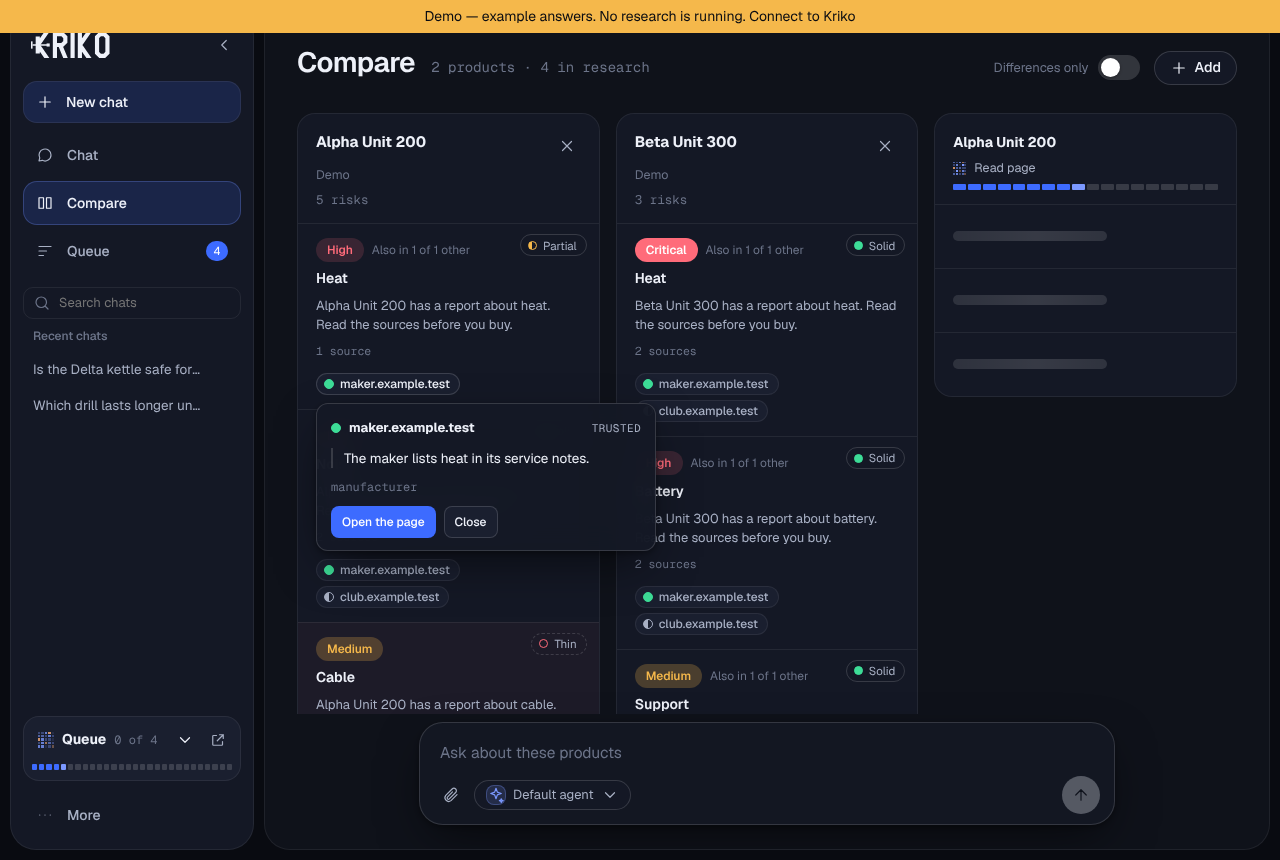
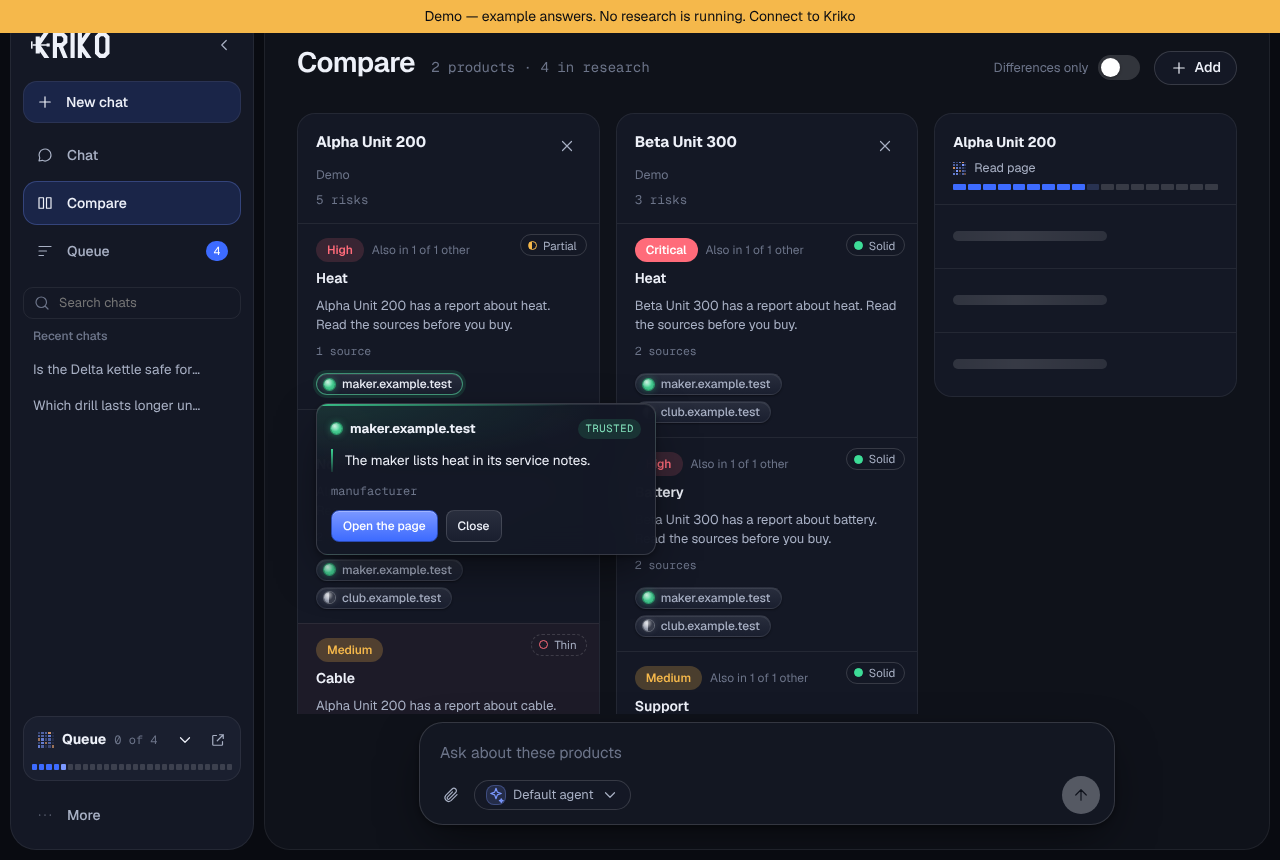
style(ui): the claim chip's marks are lit lenses, not flat fills
Flat colour read as cheap. Each mark is now a small lens: a lit body, a gloss
and a soft glow in its tier's own colour; the chip has a top-light gradient
and tints its edge on hover; the card carries a hairline of the tier colour
and a wash behind the head, and rises in with the app's one-shot motion
(off when motion is off). The extension chip carries the same look.

Claude-Session: https://claude.ai/code/session_0115bYUkYb76nUoGx5zcHdWF

diff --git a/kriko-ui/src/styles/rail.css b/kriko-ui/src/styles/rail.css
@@ -512,32 +512,55 @@
 }
 
 /* ---- the claim chip: a source's standing, its site, and its quote on hover ----
-   Three shapes, as the evidence mark draws them: filled, half, ring. The
-   extension panel carries the same chip (extension/hover_lite/hover_lite.css). */
+   Three shapes, as the evidence mark draws them: filled, half, ring. Each is a
+   small lens: a lit body, a gloss, a soft glow in its own colour. The glow is
+   the only place colour spills, so a row of chips stays calm. The extension
+   panel carries the same chip (extension/hover_lite/hover_lite.css). */
+
+.claim-chip,
+.claim-card {
+  --tone: var(--ink-3);
+}
+
+[data-standing='trusted'] {
+  --tone: var(--ok);
+}
+
+[data-standing='neutral'] {
+  --tone: var(--ink-2);
+}
+
+[data-standing='low'] {
+  --tone: var(--warn);
+}
 
 .claim-sources {
   display: flex;
   flex-wrap: wrap;
-  gap: 5px;
+  gap: 6px;
   margin-top: 8px;
 }
 
 .claim-chip {
   display: inline-flex;
   align-items: center;
-  gap: 6px;
+  gap: 7px;
   max-width: 100%;
-  padding: 4px 9px 4px 7px;
-  background: var(--panel-2);
+  padding: 4px 10px 4px 7px;
+  background: linear-gradient(180deg, color-mix(in srgb, var(--ink) 7%, var(--panel-2)), var(--panel-2));
   border: 1px solid var(--edge);
   border-radius: 999px;
+  box-shadow: inset 0 1px 0 color-mix(in srgb, var(--ink) 9%, transparent), var(--shadow-1);
   color: var(--ink-2);
   cursor: pointer;
   font: inherit;
   font-size: 12px;
   font-weight: 500;
   line-height: 1;
-  transition: border-color calc(150ms * var(--tm)), color calc(150ms * var(--tm));
+  transition:
+    border-color calc(160ms * var(--tm)),
+    color calc(160ms * var(--tm)),
+    box-shadow calc(160ms * var(--tm));
 }
 
 .claim-chip[data-compact] {
@@ -546,7 +569,10 @@
 
 .claim-chip:hover,
 .claim-chip[aria-expanded='true'] {
-  border-color: var(--edge-strong);
+  border-color: color-mix(in srgb, var(--tone) 50%, var(--edge-strong));
+  box-shadow:
+    inset 0 1px 0 color-mix(in srgb, var(--ink) 9%, transparent),
+    0 0 0 3px color-mix(in srgb, var(--tone) 12%, transparent);
   color: var(--ink);
 }
 
@@ -567,24 +593,44 @@
   white-space: nowrap;
 }
 
+/* The lens. Trusted is lit all through, neutral is lit on one side, low is a
+   lit ring round a dark centre. A gloss sits on top of all three. */
 .claim-glyph {
   box-sizing: border-box;
+  position: relative;
   flex: none;
-  width: 10px;
-  height: 10px;
-  border: 1.5px solid var(--ok);
+  width: 11px;
+  height: 11px;
   border-radius: 50%;
-  background: var(--ok);
+  background: radial-gradient(circle at 50% 50%, color-mix(in srgb, var(--tone) 100%, white 12%), color-mix(in srgb, var(--tone) 78%, black));
+  box-shadow:
+    0 0 0 1px color-mix(in srgb, var(--tone) 70%, black),
+    0 0 7px color-mix(in srgb, var(--tone) 55%, transparent);
+}
+
+.claim-glyph::after {
+  content: '';
+  position: absolute;
+  inset: 0;
+  border-radius: 50%;
+  background: radial-gradient(circle at 34% 28%, rgba(255, 255, 255, 0.75), rgba(255, 255, 255, 0) 52%);
+  pointer-events: none;
 }
 
 [data-standing='neutral'] > .claim-glyph {
-  border-color: var(--ink-2);
-  background: linear-gradient(90deg, var(--ink-2) 50%, transparent 50%);
+  background:
+    linear-gradient(90deg, transparent 50%, color-mix(in srgb, var(--ink) 14%, var(--panel-2)) 50%),
+    radial-gradient(circle at 50% 50%, color-mix(in srgb, var(--tone) 100%, white 18%), color-mix(in srgb, var(--tone) 72%, black));
+  box-shadow:
+    0 0 0 1px color-mix(in srgb, var(--tone) 60%, black),
+    0 0 6px color-mix(in srgb, var(--tone) 28%, transparent);
 }
 
 [data-standing='low'] > .claim-glyph {
-  border-color: var(--warn);
-  background: transparent;
+  background: radial-gradient(circle at 50% 50%, color-mix(in srgb, var(--panel-2) 88%, black) 0 34%, color-mix(in srgb, var(--tone) 100%, white 10%) 40%, color-mix(in srgb, var(--tone) 80%, black) 100%);
+  box-shadow:
+    0 0 0 1px color-mix(in srgb, var(--tone) 65%, black),
+    0 0 6px color-mix(in srgb, var(--tone) 38%, transparent);
 }
 
 .claim-card {
@@ -593,14 +639,37 @@
   display: flex;
   flex-direction: column;
   gap: 10px;
+  overflow: hidden;
   width: min(340px, calc(100vw - 24px));
-  padding: 14px 14px 12px;
-  background: color-mix(in srgb, var(--panel) 95%, transparent);
-  backdrop-filter: blur(14px);
+  padding: 15px 14px 12px;
+  background:
+    radial-gradient(120% 90px at 0% 0%, color-mix(in srgb, var(--tone) 14%, transparent), transparent 70%),
+    color-mix(in srgb, var(--panel) 96%, transparent);
+  backdrop-filter: blur(16px) saturate(1.2);
   border: 1px solid var(--edge-strong);
   border-radius: var(--r-m);
-  box-shadow: var(--shadow-2);
+  box-shadow:
+    inset 0 1px 0 color-mix(in srgb, var(--ink) 10%, transparent),
+    var(--shadow-2);
   color: var(--ink);
+  animation: claim-card-in calc(180ms * var(--tm)) var(--ease-out) both;
+}
+
+/* A hairline of the tier's own colour along the top edge, fading out to the right. */
+.claim-card::before {
+  content: '';
+  position: absolute;
+  inset: 0 0 auto;
+  height: 1.5px;
+  background: linear-gradient(90deg, var(--tone), transparent 75%);
+  opacity: 0.8;
+}
+
+@keyframes claim-card-in {
+  from {
+    opacity: 0;
+    transform: translateY(calc(5px * var(--dm)));
+  }
 }
 
 .claim-card-head {
@@ -612,18 +681,22 @@
 
 .claim-card-word {
   margin-left: auto;
-  color: var(--ink-2);
-  font-size: 11px;
-  letter-spacing: 0.04em;
+  padding: 2px 7px;
+  background: color-mix(in srgb, var(--tone) 14%, transparent);
+  border-radius: 999px;
+  color: color-mix(in srgb, var(--tone) 60%, var(--ink));
+  font-size: 10.5px;
+  letter-spacing: 0.06em;
   text-transform: uppercase;
 }
 
 .claim-card blockquote {
   margin: 0;
-  padding-left: 11px;
-  border-left: 2px solid var(--edge-strong);
+  padding: 1px 0 1px 12px;
+  border-left: 2px solid transparent;
+  border-image: linear-gradient(180deg, var(--tone), color-mix(in srgb, var(--tone) 10%, transparent)) 1;
   font-size: 13.5px;
-  line-height: 1.5;
+  line-height: 1.55;
 }
 
 .claim-card-none,
@@ -640,8 +713,8 @@
 
 .claim-card-acts a,
 .claim-card-acts button {
-  padding: 6px 10px;
-  background: var(--panel-2);
+  padding: 6px 11px;
+  background: linear-gradient(180deg, color-mix(in srgb, var(--ink) 7%, var(--panel-2)), var(--panel-2));
   border: 1px solid var(--edge-strong);
   border-radius: var(--r-s);
   color: var(--ink);
@@ -653,7 +726,8 @@
 }
 
 .claim-card-acts a {
-  background: var(--accent);
-  border-color: transparent;
+  background: linear-gradient(180deg, var(--accent-hi), var(--accent));
+  border-color: color-mix(in srgb, var(--accent) 70%, black);
+  box-shadow: inset 0 1px 0 rgba(255, 255, 255, 0.28);
   color: var(--accent-ink);
 }

diff --git a/extension/hover_lite/hover_lite.css b/extension/hover_lite/hover_lite.css
@@ -2237,18 +2237,24 @@
 .lite-rc-sources { display: flex; flex-direction: column; gap: 2px; }
 .lite-rc-chips { display: flex; flex-wrap: wrap; gap: 5px; }
 
-/* A source as a chip: the mark for where it stands, and its site. Filled, half
-   and ring are the app's shapes (kriko-ui/src/styles/rail.css, .claim-chip), so
-   the two surfaces read the same and colour is never the only cue. */
+/* A source as a chip: a small lens for where it stands, and its site. Filled,
+   half and ring are the app's shapes, lit, glossed and glowing the same way
+   (kriko-ui/src/styles/rail.css, .claim-chip), so the two surfaces read alike
+   and colour is never the only cue. */
+.lite-chip { --tone: var(--fg-muted); }
+.lite-chip[data-standing="trusted"] { --tone: var(--low-ink); }
+.lite-chip[data-standing="neutral"] { --tone: var(--fg-muted); }
+.lite-chip[data-standing="low"] { --tone: var(--med-ink); }
 .lite-chip {
   display: inline-flex;
   align-items: center;
-  gap: 6px;
+  gap: 7px;
   max-width: 100%;
-  padding: 4px 9px 4px 7px;
-  background: var(--bg-item);
+  padding: 4px 10px 4px 7px;
+  background: linear-gradient(180deg, color-mix(in srgb, var(--fg) 7%, var(--bg-item)), var(--bg-item));
   border: 1px solid var(--border);
   border-radius: 999px;
+  box-shadow: inset 0 1px 0 color-mix(in srgb, var(--fg) 9%, transparent);
   color: var(--fg-muted);
   cursor: pointer;
   font: inherit;
@@ -2256,24 +2262,42 @@
   font-weight: 500;
   line-height: 1;
 }
-.lite-chip:hover, .lite-chip[aria-expanded="true"] { border-color: var(--border-control); color: var(--fg); }
+.lite-chip:hover, .lite-chip[aria-expanded="true"] {
+  border-color: color-mix(in srgb, var(--tone) 50%, var(--border-control));
+  box-shadow: inset 0 1px 0 color-mix(in srgb, var(--fg) 9%, transparent), 0 0 0 3px color-mix(in srgb, var(--tone) 12%, transparent);
+  color: var(--fg);
+}
 .lite-chip:focus-visible { outline: 2px solid var(--ice); outline-offset: 2px; }
 .lite-chip[data-stance="refutes"] { border-style: dashed; }
 .lite-chip-site { overflow: hidden; max-width: 18ch; text-overflow: ellipsis; white-space: nowrap; }
 .lite-chip-glyph {
   box-sizing: border-box;
+  position: relative;
   flex: none;
-  width: 10px;
-  height: 10px;
-  border: 1.5px solid var(--low-ink);
+  width: 11px;
+  height: 11px;
   border-radius: 50%;
-  background: var(--low-ink);
+  background: radial-gradient(circle at 50% 50%, color-mix(in srgb, var(--tone) 100%, white 12%), color-mix(in srgb, var(--tone) 78%, black));
+  box-shadow: 0 0 0 1px color-mix(in srgb, var(--tone) 70%, black), 0 0 7px color-mix(in srgb, var(--tone) 55%, transparent);
+}
+.lite-chip-glyph::after {
+  content: "";
+  position: absolute;
+  inset: 0;
+  border-radius: 50%;
+  background: radial-gradient(circle at 34% 28%, rgba(255, 255, 255, 0.75), rgba(255, 255, 255, 0) 52%);
+  pointer-events: none;
 }
 .lite-chip[data-standing="neutral"] .lite-chip-glyph {
-  border-color: var(--fg-muted);
-  background: linear-gradient(90deg, var(--fg-muted) 50%, transparent 50%);
+  background:
+    linear-gradient(90deg, transparent 50%, color-mix(in srgb, var(--fg) 14%, var(--bg-item)) 50%),
+    radial-gradient(circle at 50% 50%, color-mix(in srgb, var(--tone) 100%, white 18%), color-mix(in srgb, var(--tone) 72%, black));
+  box-shadow: 0 0 0 1px color-mix(in srgb, var(--tone) 60%, black), 0 0 6px color-mix(in srgb, var(--tone) 28%, transparent);
 }
-.lite-chip[data-standing="low"] .lite-chip-glyph { border-color: var(--med-ink); background: transparent; }
+.lite-chip[data-standing="low"] .lite-chip-glyph {
+  background: radial-gradient(circle at 50% 50%, color-mix(in srgb, var(--bg-item) 88%, black) 0 34%, color-mix(in srgb, var(--tone) 100%, white 10%) 40%, color-mix(in srgb, var(--tone) 80%, black) 100%);
+  box-shadow: 0 0 0 1px color-mix(in srgb, var(--tone) 65%, black), 0 0 6px color-mix(in srgb, var(--tone) 38%, transparent);
+}
 
 .lite-rc-src { margin: 8px 0 0; padding: 0 0 0 10px; border-left: 2px solid var(--border-control); }
 .lite-rc-src[hidden] { display: none; }

diff --git a/kriko-ui/src/ui/ClaimChip.tsx b/kriko-ui/src/ui/ClaimChip.tsx
@@ -110,6 +110,7 @@ export function ClaimChip({ source, compact = false }: { source: Evidence; compa
             ref={card}
             id={id}
             className="claim-card"
+            data-standing={source.standing}
             role="dialog"
             aria-label={`Evidence from ${site}`}
             style={{ left: at?.left ?? 0, top: at?.top ?? 0, visibility: at ? 'visible' : 'hidden' }}
